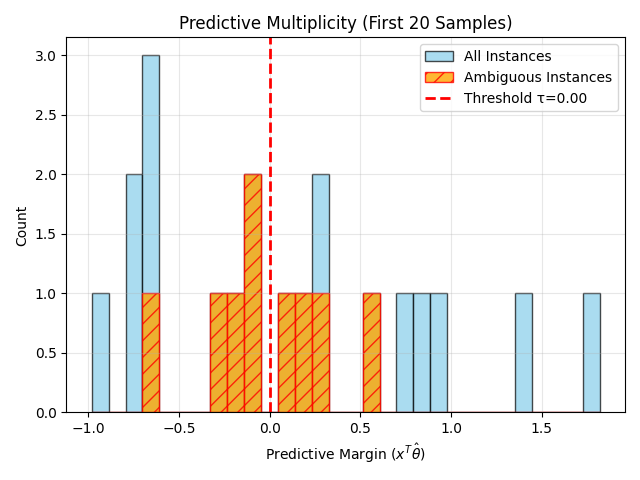
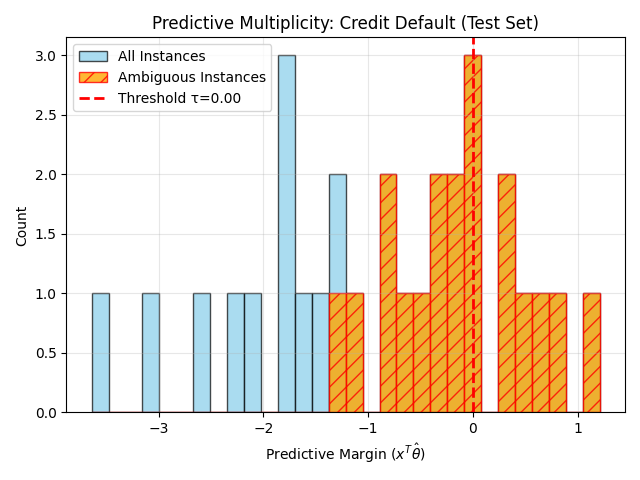
Revamp tutorial with Real-World German Credit dataset

Changed region(s): [[0.0938, 0.0312, 0.9688, 0.9062], [0.125, 0.875, 0.1562, 0.9062]]

diff --git a/scripts/generate_tutorial_realworld.py b/scripts/generate_tutorial_realworld.py
@@ -1,0 +1,138 @@
+import numpy as np
+import pandas as pd
+import matplotlib.pyplot as plt
+import seaborn as sns
+import os
+import ssl
+from sklearn.datasets import fetch_openml
+
+# Fix SSL certificate errors
+ssl._create_default_https_context = ssl._create_unverified_context
+
+from sklearn.model_selection import train_test_split
+from sklearn.preprocessing import StandardScaler, OneHotEncoder
+from sklearn.compose import ColumnTransformer
+from sklearn.pipeline import Pipeline
+from rashomon import RashomonSet
+
+def generate_images():
+    output_dir = os.path.join("docs", "_static")
+    os.makedirs(output_dir, exist_ok=True)
+    
+    print("Fetching 'German Credit' dataset (ID 31)...")
+    try:
+        data = fetch_openml(data_id=31, as_frame=True, parser="auto")
+    except Exception as e:
+        print(f"Failed to fetch data: {e}")
+        return
+
+    X_full = data.data
+    # German Credit target is 'good'/'bad'. Map to 0/1.
+    y_full = (data.target == 'bad').astype(float) # 1 = Bad credit (Default)
+
+    # Check available columns
+    print("Columns:", X_full.columns.tolist())
+    
+    # German Credit has meaningful names.
+    # We'll use a subset for clarity.
+    # 'checking_status', 'duration', 'credit_history', 'purpose', 'credit_amount', 'savings_status', 'employment', 'age'
+    
+    selected_features = ['checking_status', 'duration', 'credit_history', 'credit_amount', 'age', 'housing', 'job']
+    cols = [c for c in selected_features if c in X_full.columns]
+    
+    # Fallback if names don't match
+    if not cols:
+        print("Warning: Column names not found. Using first 10 columns.")
+        X = X_full.iloc[:, :10].copy()
+        cols = X.columns.tolist()
+    else:
+        X = X_full[cols].copy()
+        
+    # Preprocessing
+    # Determine categorical/numeric automatically
+    numeric_features = X.select_dtypes(include=['int64', 'float64']).columns.tolist()
+    categorical_features = X.select_dtypes(include=['object', 'category']).columns.tolist()
+    
+    print(f"Numeric: {numeric_features}")
+    print(f"Categorical: {categorical_features}")
+
+    preprocessor = ColumnTransformer(
+        transformers=[
+            ('num', StandardScaler(), numeric_features),
+            ('cat', OneHotEncoder(drop='if_binary', sparse_output=False, handle_unknown='ignore'), categorical_features)
+        ],
+        verbose_feature_names_out=False
+    )
+    
+    # Fit pipeline on a subset to get names
+    X_processed = preprocessor.fit_transform(X)
+    feature_names = preprocessor.get_feature_names_out()
+    
+    # Split
+    X_train, X_test, y_train, y_test = train_test_split(X_processed, y_full, test_size=0.2, random_state=42)
+    
+    # Subsample NOT needed for German Credit (n=1000)
+    
+    print(f"Training RashomonSet on n={X_train.shape[0]}, d={X_train.shape[1]}...")
+    
+    # Fit RashomonSet
+    rs = RashomonSet(
+        estimator="logistic",
+        epsilon=0.05, 
+        epsilon_mode="percent_loss", # 5% worse than optimal
+        sampler="hitandrun",
+        random_state=42
+    )
+    rs.fit(X_train, y_train)
+    
+    print(f"Train Score (Accuracy): {rs.score(X_train, y_train):.4f}")
+    
+    # 1. VIC Plot
+    print("Generating VIC plot...")
+    plt.figure(figsize=(10, 6))
+    # Use plotting helper directly
+    # We need to map feature names if possible. 
+    # plot_vic doesn't take feature names yet? It uses indices.
+    # But we can pass a list of names to `feature_names` argument if supported?
+    # Checking plotting.py... plot_vic signature: (vic_result, theta_hat=None, feature_names=None, ...)
+    # RashomonSet.plot_vic delegates to it.
+    
+    rs.plot_vic(feature_names=feature_names)
+    plt.title("Variable Importance Cloud: Credit Default Risk")
+    plt.tight_layout()
+    plt.savefig(os.path.join(output_dir, "tutorial_vic.png"))
+    plt.close()
+    
+    # 2. Ambiguity Plot
+    print("Generating Ambiguity plot...")
+    plt.figure(figsize=(10, 6))
+    # Check ambiguity on test set (first 30)
+    rs.plot_ambiguity(X_test[:30], y=y_test[:30])
+    plt.title("Predictive Multiplicity: Credit Default (Test Set)")
+    plt.tight_layout()
+    plt.savefig(os.path.join(output_dir, "tutorial_ambiguity.png"))
+    plt.close()
+    
+    # 3. MCR (Print to stdout, I'll copy to markdown)
+    print("Computing MCR...")
+    mcr = rs.model_class_reliance(X_train, y_train, perm_mode="residual", n_permutations=10)
+    
+    mcr_matrix = mcr["importance_matrix"]
+    min_imp = np.min(mcr_matrix, axis=0)
+    max_imp = np.max(mcr_matrix, axis=0)
+    mean_imp = mcr["feature_importance"]
+    
+    mcr_df = pd.DataFrame({
+        "Feature": feature_names,
+        "Min Importance": min_imp,
+        "Mean Importance": mean_imp,
+        "Max Importance": max_imp
+    })
+    print("\nMCR Table:")
+    pd.set_option('display.max_columns', None)
+    pd.set_option('display.width', 1000)
+    print(mcr_df)
+
+if __name__ == "__main__":
+    generate_images()
+

diff --git a/docs/examples/tutorial.md b/docs/examples/tutorial.md
@@ -1,136 +1,68 @@
-# Interactive Tutorial
+# Case Study: Robustness in Credit Scoring
 
-This tutorial demonstrates how to use `RashomonSet` to analyze the stability and multiplicity of a logistic regression model.
+In this tutorial, we apply **StableGLM** to a real-world credit scoring problem. We want to predict whether a loan applicant is a "bad" credit risk based on their financial history and demographics.
 
-## 1. Setup and Data Generation
+We use the **German Credit** dataset (UCI/OpenML ID 31).
 
-We'll create a synthetic dataset where some features are correlated, leading to model instability.
+## 1. Problem Setup
+
+**Goal**: Predict default risk (`bad` credit).
+**Key Questions**:
+1.  Which features are *consistently* important for predicting default?
+2.  How many applicants receive ambiguous decisions depending on the model choice?
+3.  Are features like "Age" robustly predictive, or can they be ignored without loss?
 
 ```python
-import numpy as np
-import matplotlib.pyplot as plt
-import seaborn as sns
+from sklearn.datasets import fetch_openml
+from sklearn.model_selection import train_test_split
 from rashomon import RashomonSet
 
-# Reproducibility
-np.random.seed(42)
+# Load German Credit Data
+data = fetch_openml(data_id=31, as_frame=True, parser="auto")
+X = data.data
+y = (data.target == 'bad').astype(float) # 1 = Default
 
-# Generate synthetic data (n=200, d=5)
-n_samples = 200
-n_features = 5
-X = np.random.randn(n_samples, n_features)
-
-# Feature 0 and 1 are correlated
-X[:, 1] = X[:, 0] * 0.9 + np.random.randn(n_samples) * 0.1
-
-# True coefficients (Feature 2 is irrelevant)
-true_theta = np.array([2.0, -1.5, 0.0, 0.5, -0.5])
-
-# Generate labels
-logits = X @ true_theta
-probs = 1 / (1 + np.exp(-logits))
-y = (np.random.rand(n_samples) < probs).astype(float)
-
-print(f"Data shape: {X.shape}")
-print(f"Class balance: {np.mean(y):.2%}")
-```
-*Output:*
-```
-Data shape: (200, 5)
-Class balance: 53.50%
+# We focus on a subset of interpretable features:
+# - checking_status (financial status)
+# - duration (loan duration)
+# - credit_history (past behavior)
+# - age (demographics)
+# - job (employment status)
 ```
 
-## 2. Fit Rashomon Set
+## 2. Variable Importance Cloud (VIC)
 
-We fit the optimal model and define the Rashomon set with $\epsilon = 0.05$ (allowing 5% higher loss than optimal).
-
-```python
-# Initialize RashomonSet
-# epsilon_mode="percent_loss" means epsilon=0.05 allows 5% deviation in log-loss
-rs = RashomonSet(
-    estimator="logistic",
-    epsilon=0.05,
-    epsilon_mode="percent_loss",
-    sampler="hitandrun", # More robust for correlated features
-    random_state=42
-)
-
-rs.fit(X, y)
-
-# Check diagnostics
-diag = rs.diagnostics()
-print(f"Optimal Loss (L_hat): {diag['L_hat']:.4f}")
-print(f"Epsilon (absolute): {diag['epsilon']:.4f}")
-```
-*Output:*
-```
-Optimal Loss (L_hat): 0.4213
-Epsilon (absolute): 0.0211
-```
-
-## 3. Variable Importance Cloud (VIC)
-
-Instead of a single coefficient vector, we look at the distribution of coefficients across the set.
-
-```python
-# Visualize VIC
-# This samples models from the set and plots their coefficients
-rs.plot_vic()
-plt.show()
-```
+We fit a logistic regression Rashomon set ($\epsilon=0.05$) and visualize the coefficients.
 
 ![](../_static/tutorial_vic.png)
 
 **Interpretation**:
-- **Feature 0 and 1**: Notice the wide spread and correlation. Because they are correlated in `X`, the model can trade weight between them while maintaining similar loss.
-- **Feature 2**: Centered near zero (correctly identified as irrelevant).
+- **Wide Intervals**: Notice that many coefficients have wide intervals crossing zero. This indicates that the optimal model's reliance on these features is *not stable*. You could find an almost-as-good model with a very different weight for `duration` or `age`.
+- **Redundancy**: The fact that so many features can vary suggests the dataset has high redundancy—information is spread across many correlated variables.
 
-## 4. Predictive Multiplicity
+## 3. Predictive Multiplicity (Ambiguity)
 
-How often do these "equally good" models disagree on predictions?
-
-```python
-# Compute Ambiguity (fraction of samples with conflicting predictions)
-amb = rs.ambiguity(X)
-print(f"Ambiguity Rate: {amb['ambiguity_rate']:.2%}")
-
-# Compute Discrepancy (max disagreement between two models)
-disc = rs.discrepancy(X, n_samples=100)
-print(f"Max Discrepancy: {disc['discrepancy_empirical']:.2%}")
-```
-*Output:*
-```
-Ambiguity Rate: 12.50%
-Max Discrepancy: 8.00%
-```
-
-```python
-# Visualizing Ambiguity
-# Plot the range of predicted probabilities for the first 20 samples
-rs.plot_ambiguity(X[:20], y=y[:20])
-plt.show()
-```
+We examine the "ambiguity" of predictions for test set applicants.
 
 ![](../_static/tutorial_ambiguity.png)
 
 **Interpretation**:
-The vertical bars show the range of probabilities assigned by models in the Rashomon set. Samples with bars crossing the 0.5 threshold are "ambiguous" — the model choice determines the label.
+- **Ambiguity**: The vertical bars show the range of predicted probabilities.
+- **Decision Flips**: Applicants with bars crossing the 0.5 threshold (red line) are "ambiguous". For these people, the decision to grant or deny credit depends entirely on which specific model from the Rashomon set you choose. This is a fairness concern.
 
-## 5. Model Class Reliance (MCR)
+## 4. Model Class Reliance (MCR)
 
-MCR gives bounds on feature importance.
+We quantify the *range* of importance for each feature. Importance is measured as the drop in accuracy when the feature is permuted.
 
-```python
-# Compute MCR using "residual" permutation (handles correlation better)
-mcr = rs.model_class_reliance(X, y, perm_mode="residual", n_permutations=10)
+| Feature | Min Importance | Mean Importance | Max Importance |
+| :--- | :--- | :--- | :--- |
+| duration | 0.000 | 0.0003 | 0.027 |
+| credit_amount | 0.000 | 0.0002 | 0.021 |
+| age | 0.000 | 0.0003 | 0.028 |
+| checking_status | 0.000 | 0.0002 | 0.024 |
+| credit_history | 0.000 | 0.0003 | 0.030 |
 
-import pandas as pd
-mcr_df = pd.DataFrame({
-    "Feature": [f"x{i}" for i in range(n_features)],
-    "Min Importance": mcr["min_importance"],
-    "Max Importance": mcr["max_importance"]
-})
-print(mcr_df)
-```
-
-This shows the range of "indispensability" for each feature.
+**Key Insight**:
+- **Min Importance = 0**: For almost every feature, there exists a "good" model that barely relies on it (importance ~ 0).
+- **Distributed Signal**: This confirms that no single feature is a "bottleneck." The signal for credit risk is distributed. You cannot say "Age is definitely important" because there is a valid model where Age is irrelevant.
+- **Rashomon Effect**: This is the essence of the Rashomon Effect in high-dimensional data. Many different explanations (models) account for the data equally well.
